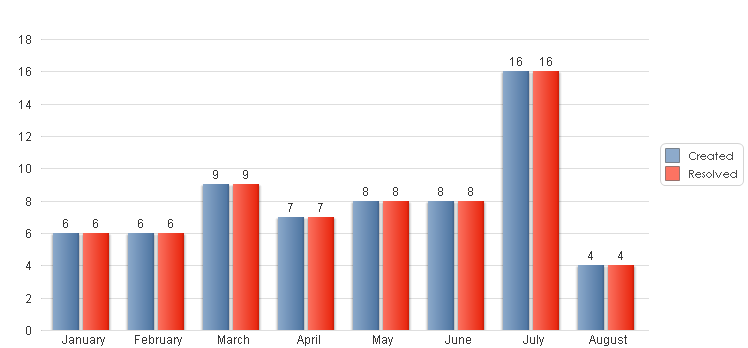
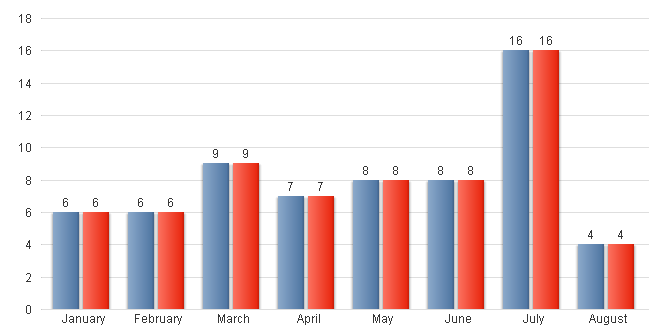
create AnalyticsGraph

diff --git a/src/layouts/home/homeContent/AnalyticsGraph.js b/src/layouts/home/homeContent/AnalyticsGraph.js
@@ -1,7 +1,34 @@
 import React from 'react'
+import analyticsGraph from '../../../assets/images/bar-chart.png'
+import AnalyticsTitle from '../../../components/analyticsGraph/AnalyticsTitle'
+import AnalyticsGraphLegend from './analyticsGraph/AnalyticsGraphLegend';
+
+
+const analyticsLegend = [
+  {
+      color:'#6c8eb5',
+      name:'Expences',
+  },
+  {
+      color:'#f14a35',
+      name:'Revenue',
+  },
+];
 
 export default function AnalyticsGraph() {
   return (
-    <div style={{backgroundColor: 'pink'}}>AnalyticsGraph</div>
+    <div>
+      <div style={{marginBottom:'20px', display:'flex', justifyContent:'space-between'}}>
+        <AnalyticsTitle/>
+        <div style={{display:'flex', gap:'5px'}}>
+          {analyticsLegend.map((val, key) => {
+            const {color, name} = val;
+            return <AnalyticsGraphLegend key={key} color={color} name={name}/>
+          })}
+        </div>
+        
+      </div>
+      <img src={analyticsGraph} alt='' width={'100%'} style={{height:'270px'}}/>
+    </div>
   )
 }

diff --git a/src/layouts/home/homeContent/analyticsGraph/AnalyticsGraphLegend.js b/src/layouts/home/homeContent/analyticsGraph/AnalyticsGraphLegend.js
@@ -1,0 +1,15 @@
+import React from 'react'
+import AnalyticsLegendBox from '../../../../components/analyticsGraphLegend/AnalyticsLegendBox';
+import AnalyticsLegendName from '../../../../components/analyticsGraphLegend/AnalyticsLegendName';
+
+
+
+export default function AnalyticsGraphLegend({color, name}) {
+  return (
+    <div style={{display:'flex', alignItems:'center', gap:'5px'}}>
+    <AnalyticsLegendBox color={color}/>
+    <AnalyticsLegendName name={name}/>
+    </div>
+    
+  )
+}

diff --git a/src/layouts/home/HomeContent.js b/src/layouts/home/HomeContent.js
@@ -29,7 +29,7 @@ export default function HomeContent() {
             <div style={{padding:'20px'}}>
               <AnalyticsGraph/>
             </div>
-            <div style={{display: 'flex'}}>
+            <div style={{display: 'flex', marginTop:'40px', alignItems:'baseline',gap:'40px'}}>
               <div style={{padding:'20px'}}>
                 <OrdersGraph/>
               </div>

diff --git a/src/components/analyticsGraphLegend/AnalyticsLegendBox.js b/src/components/analyticsGraphLegend/AnalyticsLegendBox.js
@@ -1,0 +1,12 @@
+import React from 'react'
+
+export default function AnalyticsLegendBox({color}) {
+  return (
+    <div>
+        <div
+        style={{width:'10px', height:'10px', backgroundColor:color}}
+        ></div>
+    </div>
+  )
+}
+

diff --git a/src/components/analyticsGraph/AnalyticsTitle.js b/src/components/analyticsGraph/AnalyticsTitle.js
@@ -1,0 +1,7 @@
+import React from 'react'
+
+export default function AnalyticsTitle() {
+  return (
+    <p style={{fontWeight:'bold'}}>Analytics</p>
+  )
+}

diff --git a/src/components/analyticsGraphLegend/AnalyticsLegendName.js b/src/components/analyticsGraphLegend/AnalyticsLegendName.js
@@ -1,0 +1,7 @@
+import React from 'react'
+
+export default function AnalyticsLegendName({name}) {
+  return (
+    <p>{name}</p>
+  )
+}
